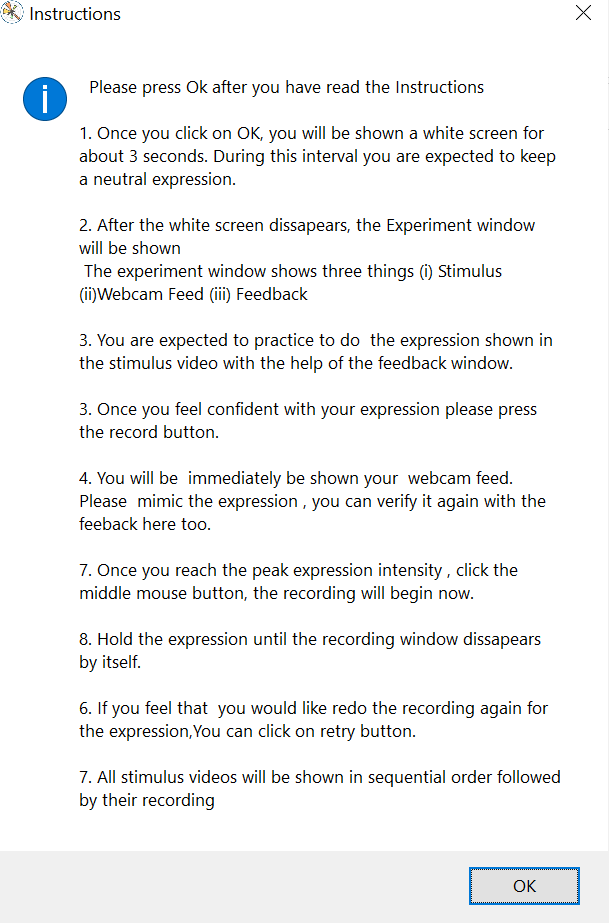
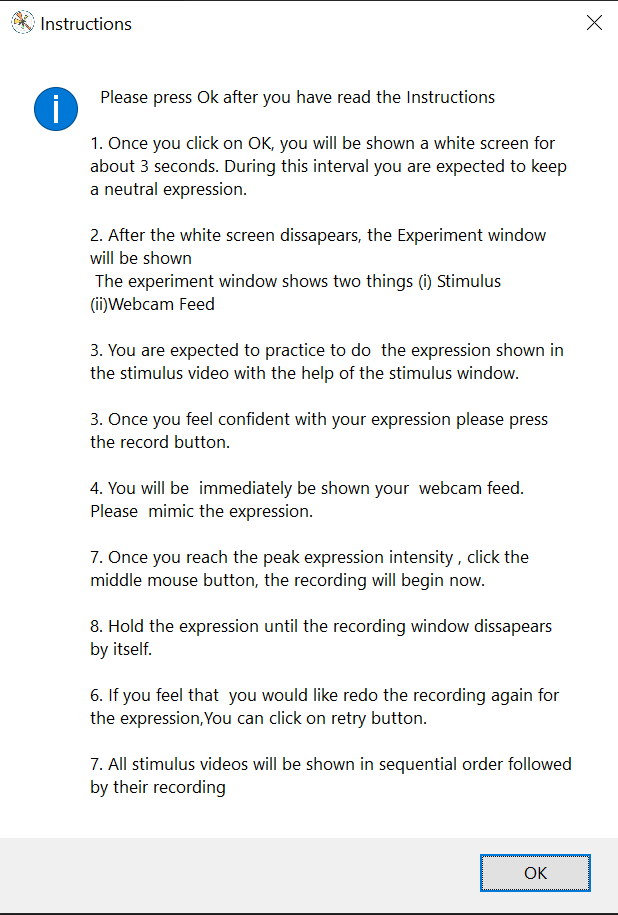
adding resources

diff --git a/Experimental_Setup/misc.py b/Experimental_Setup/misc.py
@@ -12,7 +12,7 @@ Instructions = """  Please press Ok after you have read the Instructions
 
 1. Once you click on OK, you will be shown a white screen for about 3 seconds. During this interval you are expected to keep a neutral expression.
 
-2. After the white screen dissapears, the Experiment window will be shown \n The experiment window shows three things (i) Stimulus (ii)Webcam Feed 
+2. After the white screen dissapears, the Experiment window will be shown \n The experiment window shows two things (i) Stimulus (ii)Webcam Feed 
 
 3. You are expected to practice to do  the expression shown in the stimulus video with the help of the stimulus window. 
 
